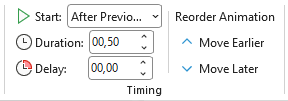
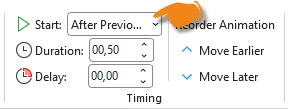
M

diff --git a/materi-powerpoint.html b/materi-powerpoint.html
@@ -3649,12 +3649,19 @@
                                           <li><strong>Sequence</strong>: As One Object</li>
                                           <li><strong>Direction</strong>: From Left</li>
                                         </ul>
-                                        klik garis TextBox pada Group Timing pilih <i class="bi bi-clock"></i> Start:
+                                        klik garis TextBox
+                                        <div class="my-3">
+                                          <img src="assets/img/klik-garis-textbox.png" alt=""
+                                            class="img-fluid shadow rounded">
+                                        </div>
+                                        pada Group Timing pilih <i class="bi bi-clock"></i> Start:
                                         After Previous
                                         <div class="my-3">
                                           <img src="assets/img/group-timing.png" alt=""
                                             class="img-fluid shadow rounded">
                                         </div>
+                                        Kenapa klik garis TextBox? <br>
+                                        agar mudah menerapkan Start dengan otomatis, tidak menerapkan satu per satu.
                                       </li>
                                       <li>TextBox: <strong>Wipe</strong> <br>
                                         <strong>Effect Options</strong>:
